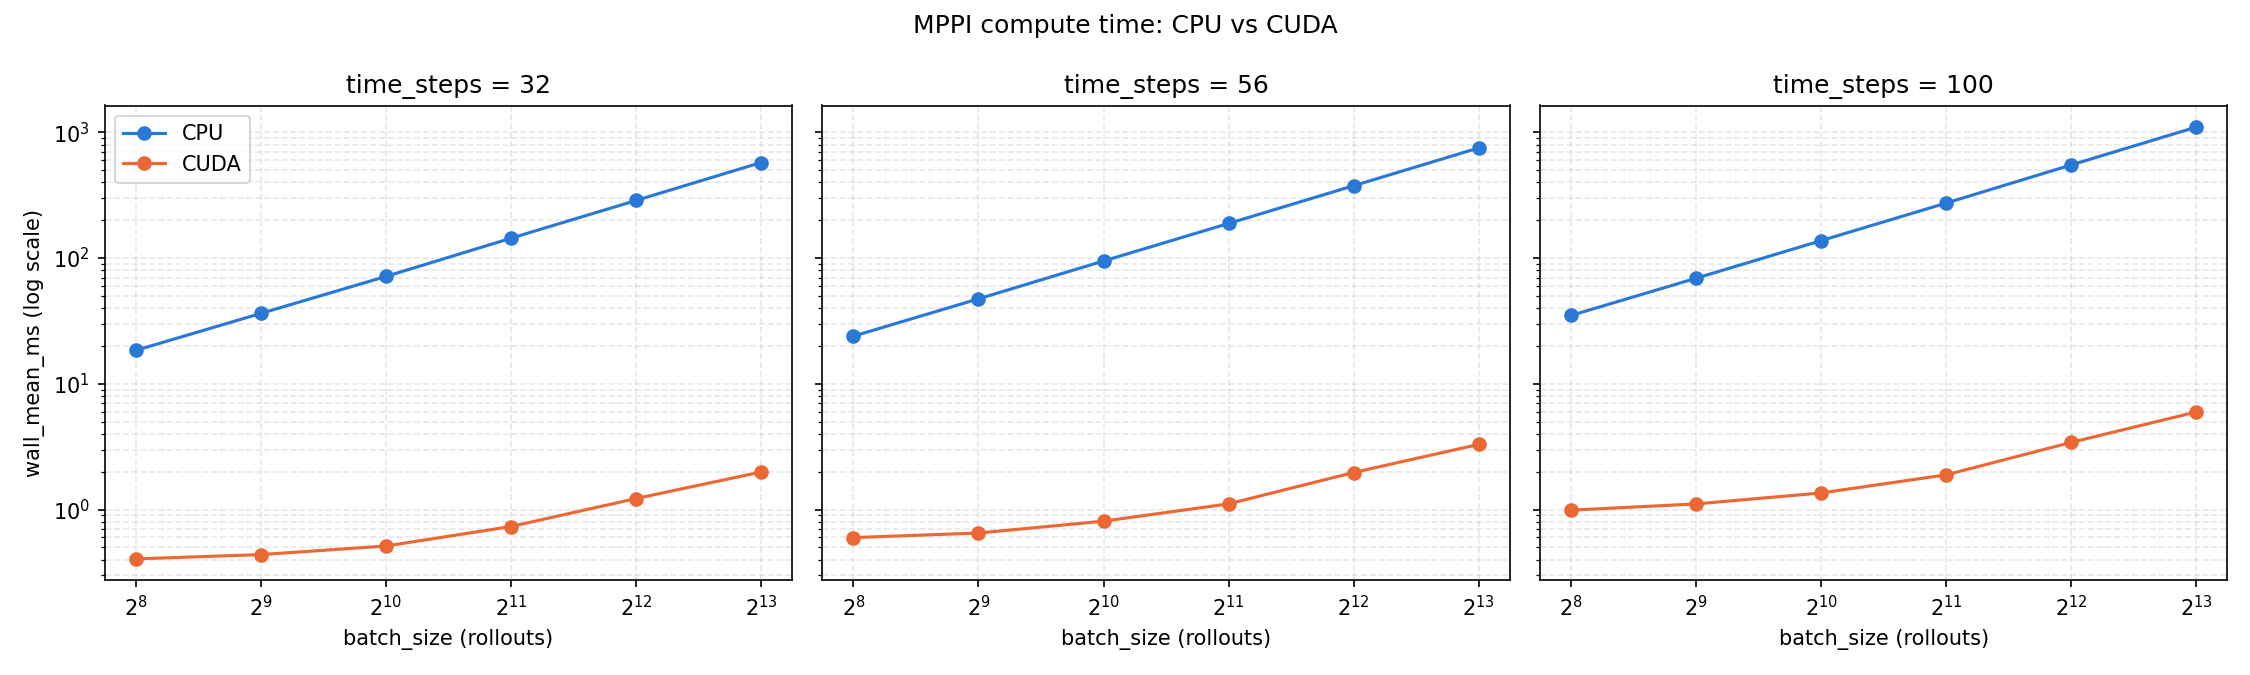
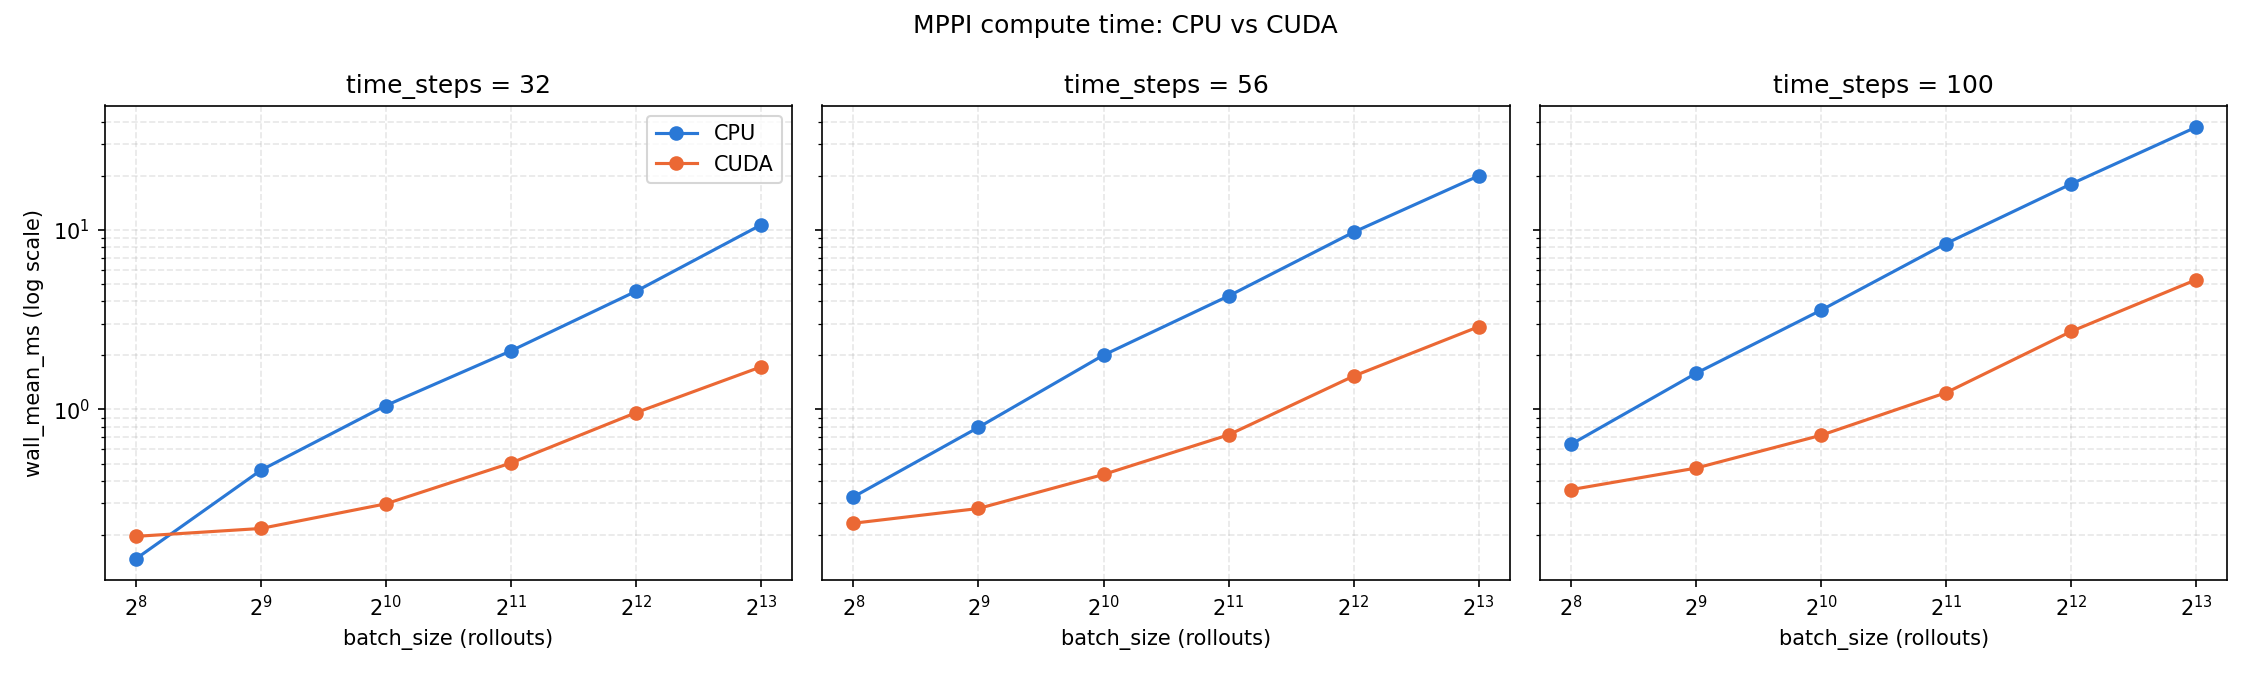
update benchmark result

diff --git a/benchmark/README.md b/benchmark/README.md
@@ -22,10 +22,13 @@ catkin build -j2 mppi_controller_cuda --cmake-args -DMPPI_BUILD_BENCHMARKS=ON -D
 ## Run
 
 ```bash
+cd your_ws
 source devel/setup.bash
 
+bash src/mppi_controller_cuda/benchmark/run_sweep.sh [warmup] [reps] > gpu.csv # all built batch_sizes, merged into one CSV
+# eg: bash src/mppi_controller_cuda/benchmark/run_sweep.sh > gpu.csv
+# or
 rosrun mppi_controller_cuda cuda_sweep_bench_2048 [warmup] [reps]   # defaults 5 30
-bash src/mppi_controller_cuda/benchmark/run_sweep.sh [warmup] [reps]  # all built batch_sizes, merged into one CSV
 ```
 
 `warmup`: calls made but not timed, to let things settle (GPU kernel JIT,
@@ -47,10 +50,6 @@ To see actual %CPU (of one core) while
 move_base_flex is really running:
 
 ```bash
-python3 src/mppi_controller_cuda/benchmark/monitor_resource_usage.py --name mbf_costmap_nav
+pgrep -x mbf_costmap_nav   # find the PID
+python3 src/mppi_controller_cuda/benchmark/monitor_resource_usage.py --pid <PID>
 ```
-
-Samples `/proc/<pid>/stat` every second (matches the move_base_flex binary
-by name, or pass `--pid <PID>` directly) and prints a live mean/median/p95/max
-summary on exit (Ctrl+C, or `--duration <sec>`). Note this measures the
-whole move_base_flex process (costmap, global planner, TF, etc. included).

diff --git a/README.md b/README.md
@@ -34,8 +34,8 @@ move_base_flex process, % of one core -- see
 
 | Controller | CPU usage (of 1 core) |
 | --- | --- |
-| mppi_controller_ros (CPU) | ~119% |
-| mppi_controller_cuda (GPU) | ~31% |
+| mppi_controller_ros (CPU) | ~29% |
+| mppi_controller_cuda (GPU) | ~22% |
 
 # Reference
 - [nav2_mppi_controller](https://github.com/ros-navigation/navigation2/tree/main/nav2_mppi_controller)
